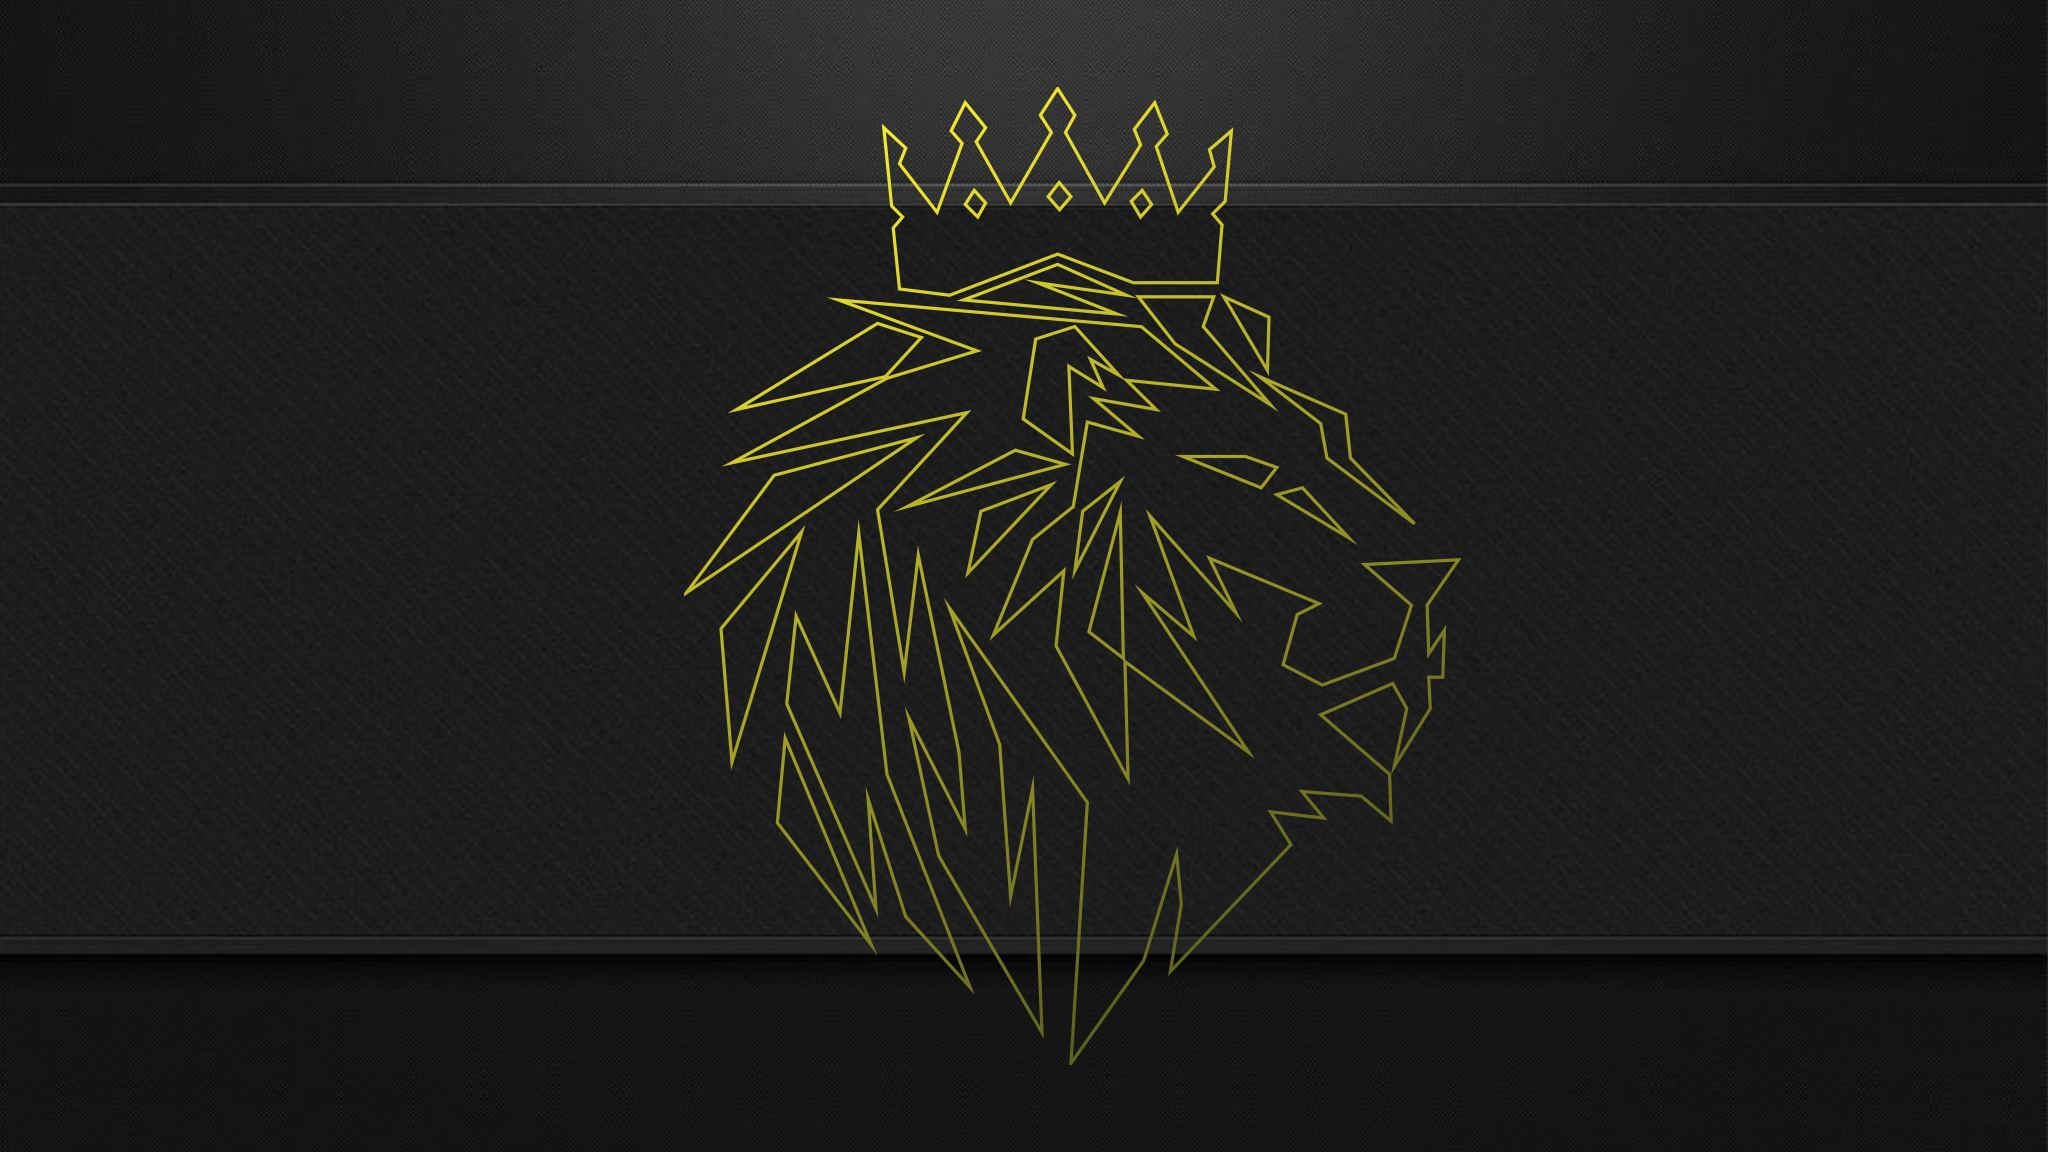
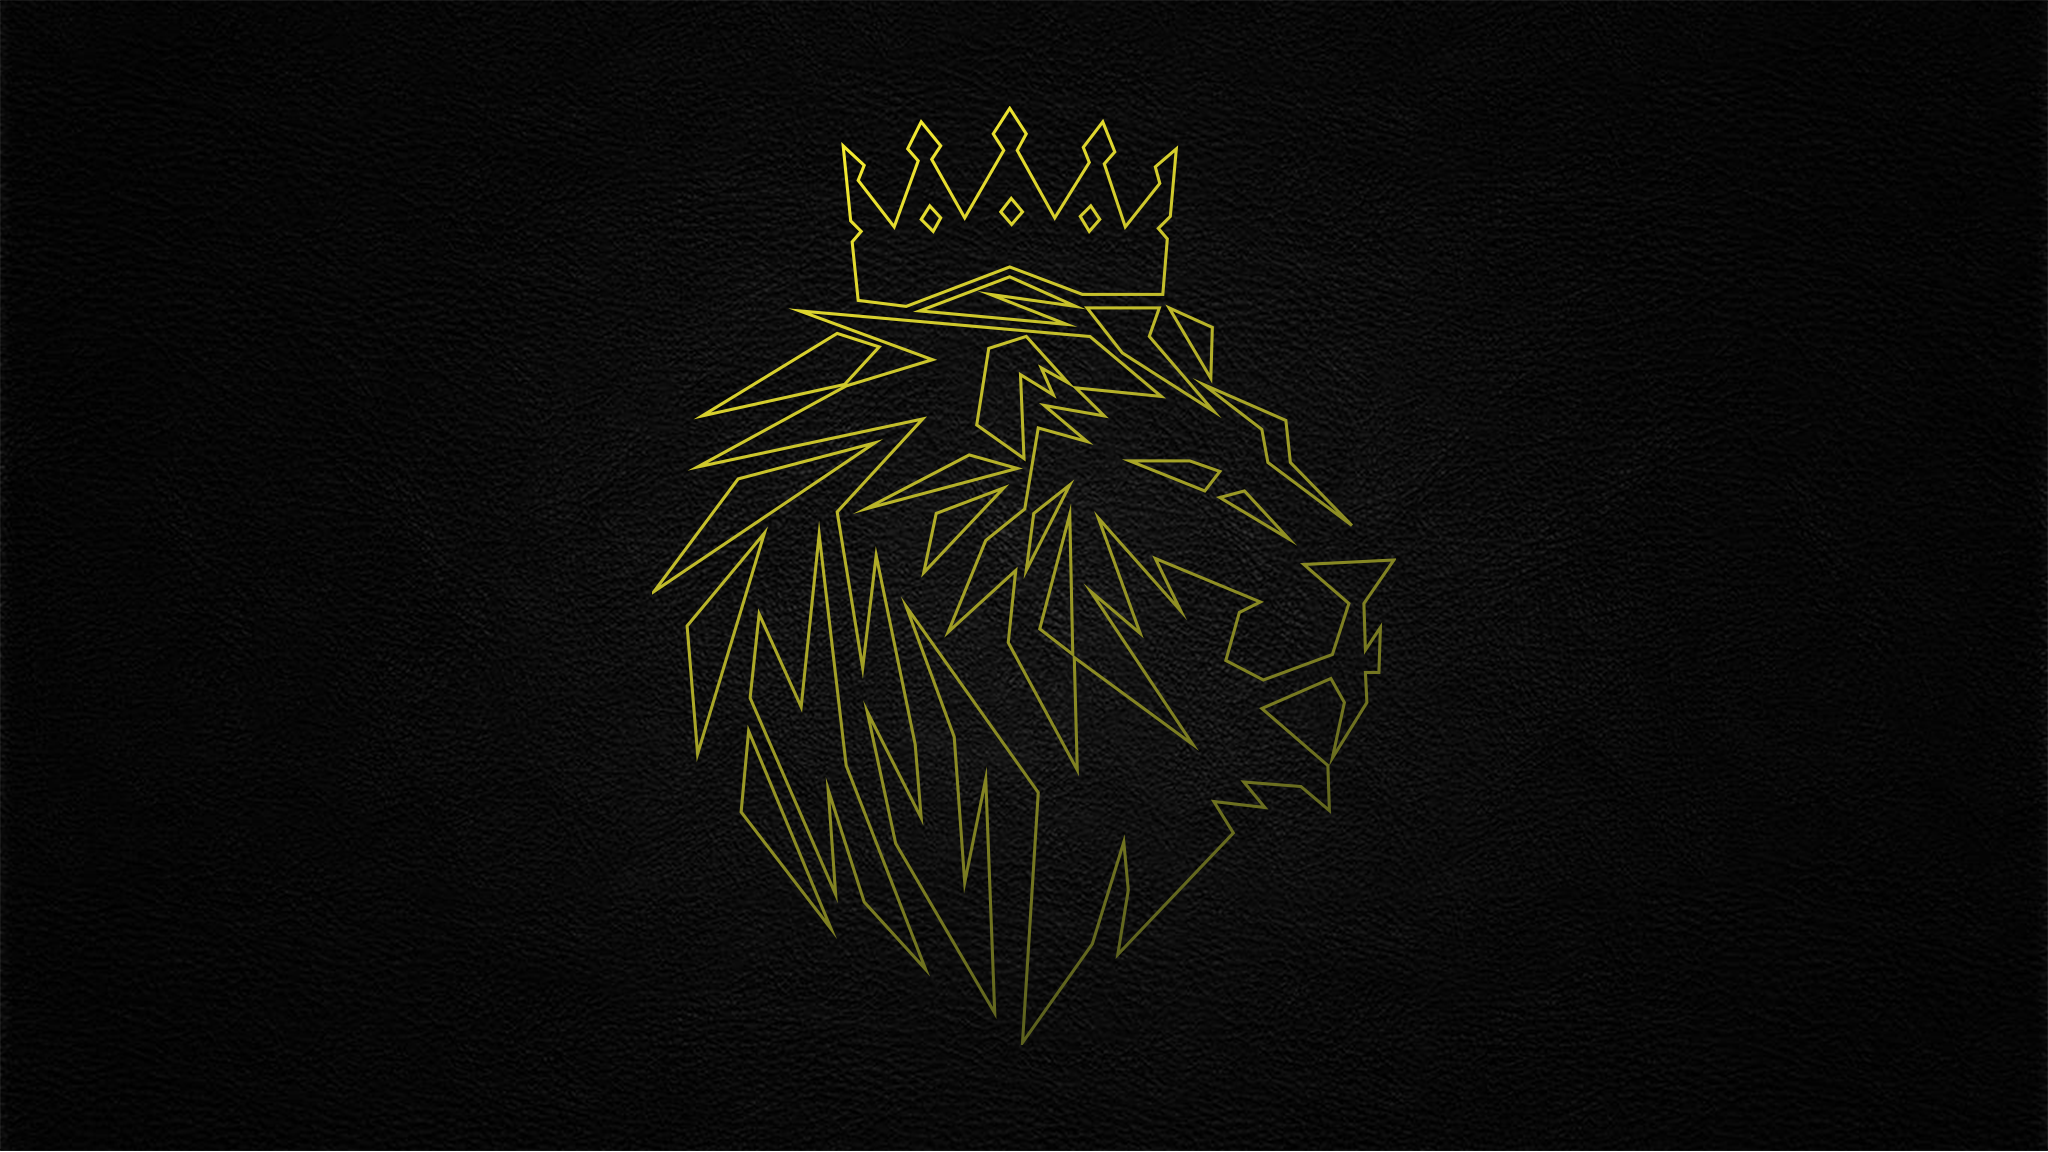
update navbar
- Ajout hamburger
- Changement de fonte (overpass 100, 400)
- Navbar maintenant responsive
- Changement background
- Plusieurs effets CSS pour un meilleur look (navbar)
- Mise en commentaire de toute la section *HEADER** dans style.css

Changed region(s): [[0.0, 0.0, 1.0, 0.9062]]

diff --git a/VEHICULES_DOCCASION_INC/assets/styles/header.css b/VEHICULES_DOCCASION_INC/assets/styles/header.css
@@ -1,3 +1,8 @@
+header{
+    font-family: 'Overpass', sans-serif;
+    font-weight: 100;
+}
+
 .navbar{
     display: flex;
     justify-items: start;
@@ -7,7 +12,9 @@
     top: 0;
     left:0;
     width: 100%;
-    height: auto;
+    height: 75px;
+    max-height: 75px;
+    min-width: 750px;
     color: white;
     background-color: #171717;
     border-bottom: 2px solid white;
@@ -87,10 +94,32 @@
 .liens a,
 .connexion,
 .langue{
+    font-family: 'Overpass', sans-serif;
+    font-weight: 100;
     color: white;
     font-size: 1.5em;
     text-decoration: underline;
     transition: 0.2s all ease-out;
+}
+
+.liens a {
+  color: #fff;
+  text-transform: uppercase;
+  text-decoration: none;
+  display: inline-block;
+  position: relative;
+}
+
+.liens a:after {    
+  bottom: 0;
+  content: "";
+  display: block;
+  height: 2px;
+  left: 50%;
+  position: absolute;
+  background: gold;
+  transition: width 0.3s ease 0s, left 0.3s ease 0s;
+  width: 0;
 }
 
 .liens a:visited{
@@ -99,4 +128,65 @@
 
 .liens a:hover{
     color: gold;
+} 
+
+.liens a:hover:after { 
+  width: 100%; 
+  left: 0; 
+}
+
+.liens_ham{
+    display: flex;
+    flex-direction: column;
+    width: 20%; 
+    padding: 10px;
+    color: white;
+    text-decoration: none;
+    text-align: center;
+    transition: 0.5s all ease-out;
+}
+
+.liens_ham a{
+    padding-top: 15px;
+    box-sizing: border-box;
+    display: block;
+    width: 200px;
+    height: 50px;
+    text-align: center;
+    border-top: 1px solid #333;
+    background-color: #171717 ;
+}
+
+.liens_ham a:hover{
+    background: gold;
+    color: #171717;
+    cursor: pointer;
+}
+
+.ham_icon div{
+    width: 35px;
+    height: 5px;
+    background-color: white;
+    margin: 6px 0;
+    margin-right: 30px;
+}
+
+.hamburger{
+    position: absolute;
+    right: -210;
+    top: 52px;
+    z-index: 100;
+}
+  
+@media screen and (max-width: 1500px){
+    .liens a{
+        display:none;
+    }
+}
+
+@media screen and (min-width: 1501px){
+    .ham_icon,
+    .liens_ham {
+        display:none;
+    }
 }

diff --git a/VEHICULES_DOCCASION_INC/assets/scripts/nav.js b/VEHICULES_DOCCASION_INC/assets/scripts/nav.js
@@ -1,0 +1,15 @@
+(() => {
+    let hamburger = document.querySelector('[data-js-hamburger]');
+    let liens_ham = document.querySelector(".liens_ham");
+
+	hamburger.addEventListener('click', () => {
+        if (hamburger.classList.contains("slideMenu")) {
+          hamburger.classList.remove("slideMenu");
+          liens_ham.style.transform = "translateX(210px)";
+        } else {
+          hamburger.classList.add("slideMenu");
+          liens_ham.style.transform = "translateX(-210px)";
+        }
+    })
+	
+})();

diff --git a/VEHICULES_DOCCASION_INC/assets/styles/styles.css b/VEHICULES_DOCCASION_INC/assets/styles/styles.css
@@ -7,7 +7,7 @@
 body {
     margin: 0;
     box-sizing: border-box;
-    font-family: Playfair Display;
+    font-family: 'Overpass', sans-serif;
 
 }
 
@@ -19,7 +19,7 @@ h1 {
     color: white;
 }
 
-header {
+/* header {
     padding: 6vw 8vw;
     position: relative;
 }
@@ -33,7 +33,7 @@ header::after {
     opacity: .25;
     position: absolute;
     width: 84vw
-}
+} */
 
 
 

diff --git a/VEHICULES_DOCCASION_INC/vues/Header.php b/VEHICULES_DOCCASION_INC/vues/Header.php
@@ -18,14 +18,21 @@
             <span class="nbItems" data-js-nbItems>0</span>
             <img class="handshake_icon" src="../VEHICULES_DOCCASION_INC/assets/logo_icones/handshake.png" data-js-cart></img>
         </div>
+
+		<div class="ham_icon" data-js-hamburger>
+			<div></div>
+			<div></div>
+			<div></div>
+		</div>
+
+		<div class="hamburger slideMenu">
+			<ul class="liens_ham">
+				<li><a href="index.php?Voiture&action=listeVoitures">Salle de montre</a></li>
+				<li><a href="#">Promotions</a></li>
+				<li><a href="#">À propos</a></li>
+				<li><a href="#">Contact</a></li>
+				<li><a href="index.php?Utilisateur&action=langue">EN/FR</a></li>
+			</ul>
+		</div>
     </nav>
 </header>
-
-<!-- <a href="./index.php" class="header__logo">VEHICULES D'OCCASION INC.</a>
-
-	<a href="./index.php?Shop&action=checkout" class="header__cart-wrapper empty" data-js-cart>
-		<span class="header__cart__item-number" data-js-item-number></span>
-		<svg xmlns="http://www.w3.org/2000/svg" viewBox="0 -31 512 512" class="header__cart">
-			<path class="header__cart__path" d="M164.96 300.004h.024c.02 0 .04-.004.059-.004H437a15.003 15.003 0 0014.422-10.879l60-210a15.003 15.003 0 00-2.445-13.152A15.006 15.006 0 00497 60H130.367l-10.722-48.254A15.003 15.003 0 00105 0H15C6.715 0 0 6.715 0 15s6.715 15 15 15h77.969c1.898 8.55 51.312 230.918 54.156 243.71C131.184 280.64 120 296.536 120 315c0 24.812 20.188 45 45 45h272c8.285 0 15-6.715 15-15s-6.715-15-15-15H165c-8.27 0-15-6.73-15-15 0-8.258 6.707-14.977 14.96-14.996zM477.114 90l-51.43 180H177.032l-40-180zm0 0M150 405c0 24.813 20.188 45 45 45s45-20.188 45-45-20.188-45-45-45-45 20.188-45 45zm45-15c8.27 0 15 6.73 15 15s-6.73 15-15 15-15-6.73-15-15 6.73-15 15-15zm0 0M362 405c0 24.813 20.188 45 45 45s45-20.188 45-45-20.188-45-45-45-45 20.188-45 45zm45-15c8.27 0 15 6.73 15 15s-6.73 15-15 15-15-6.73-15-15 6.73-15 15-15zm0 0"/>
-		</svg>
-	</a> -->

diff --git a/VEHICULES_DOCCASION_INC/vues/Head.php b/VEHICULES_DOCCASION_INC/vues/Head.php
@@ -13,10 +13,12 @@
 	<script type="text/javascript" src="assets/scripts/Voiture.js"></script>
 	<script type="text/javascript" src="assets/scripts/classMapping.js"></script>
 	<script type="text/javascript" src="assets/scripts/script.js" defer></script>
+	<script type="text/javascript" src="assets/scripts/nav.js" defer></script>
 
 	<!-- Google Fonts -->
 	<link rel="preconnect" href="https://fonts.gstatic.com">
-<link href="https://fonts.googleapis.com/css2?family=Marcellus+SC&family=Montserrat:ital,wght@0,400;0,700;1,400&display=swap" rel="stylesheet"> 
+    <link rel="preconnect" href="https://fonts.gstatic.com">
+	<link href="https://fonts.googleapis.com/css2?family=Marcellus+SC&family=Overpass:wght@100;400&display=swap" rel="stylesheet"> 
 
 </head>
 <body>

diff --git a/VEHICULES_DOCCASION_INC/vues/Single.php b/VEHICULES_DOCCASION_INC/vues/Single.php
@@ -1,0 +1,1 @@
+<h1>TEST</h1>
